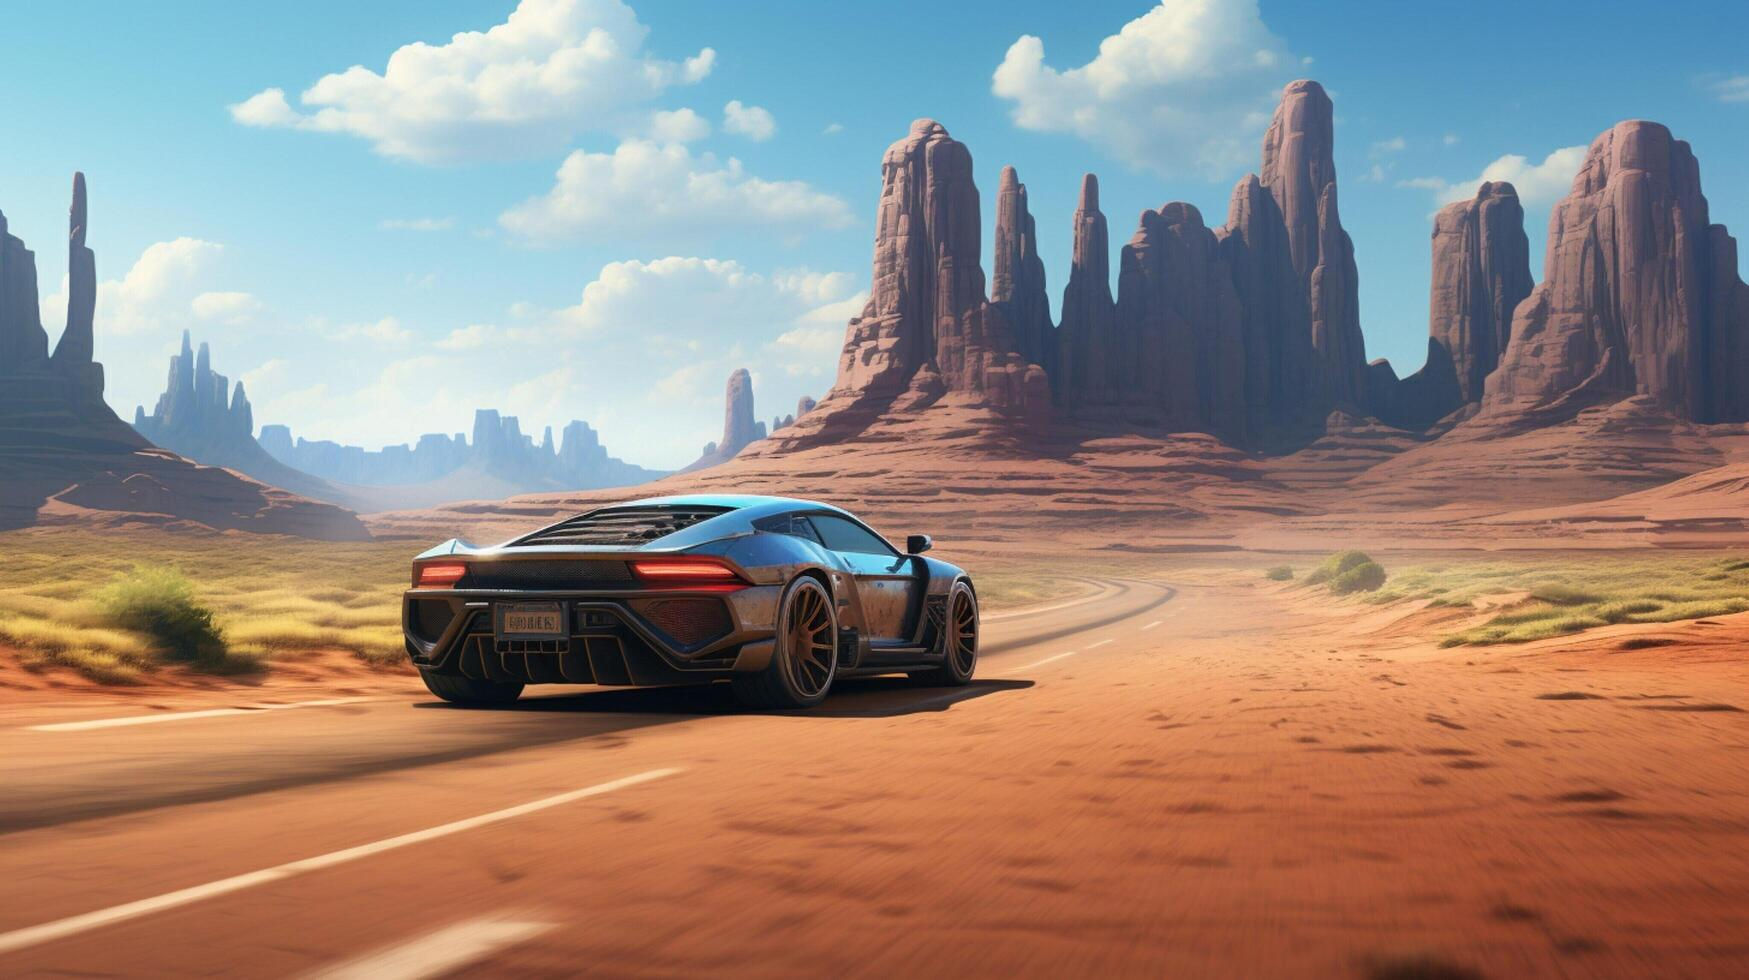
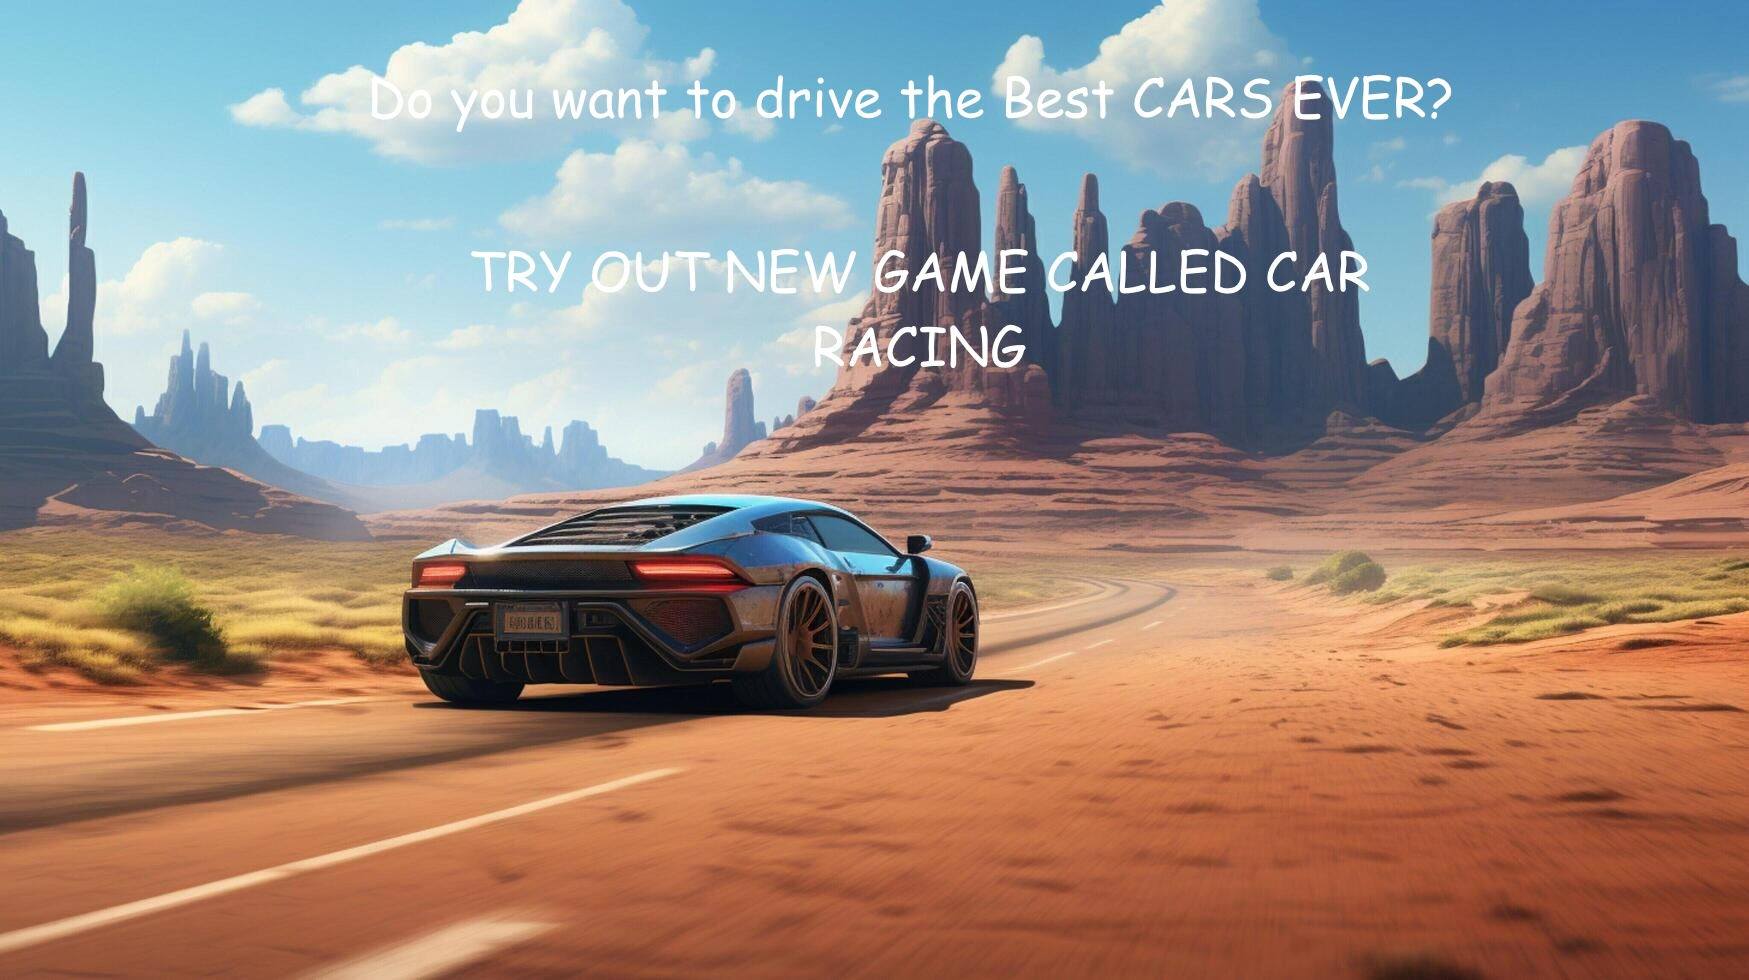
CONTENT

Changed region(s): [[0.2779, 0.2449, 0.8027, 0.3061], [0.2161, 0.0612, 0.8336, 0.1224], [0.4631, 0.3367, 0.5866, 0.398]]

diff --git a/style.css b/style.css
@@ -25,7 +25,6 @@
     background-image: url(./img/backgrund.jpeg);
     background-size: cover;
     height: 1120px;
-    margin: 0;
 }
 
 .ready{
@@ -33,6 +32,7 @@
     font-family: system-ui, -apple-system, BlinkMacSystemFont, 'Segoe UI', Roboto, Oxygen, Ubuntu, Cantarell, 'Open Sans', 'Helvetica Neue', sans-serif;
     font-size: 50px;
     margin: 0;
+    align-self: center;
 }
 
 .ready-h3{

diff --git a/index.html b/index.html
@@ -35,8 +35,6 @@
     </header>
     <main>
       <section class="backrund">
-        <h1 class="ready">Are You Ready?</h1>
-        <h3 class="ready-h3">To drive the Best CARS EVER?</h3>
       </section>
     </main>
   </body>
